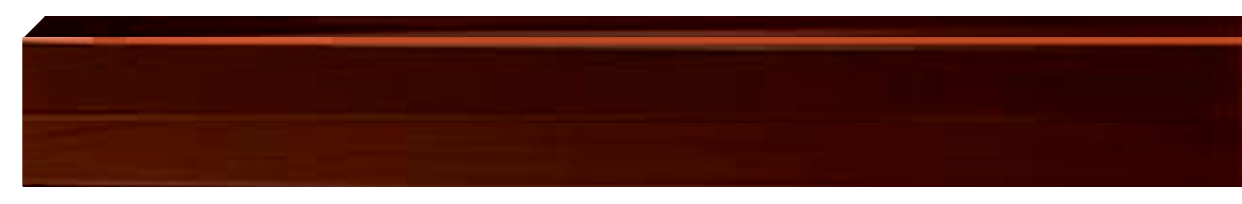
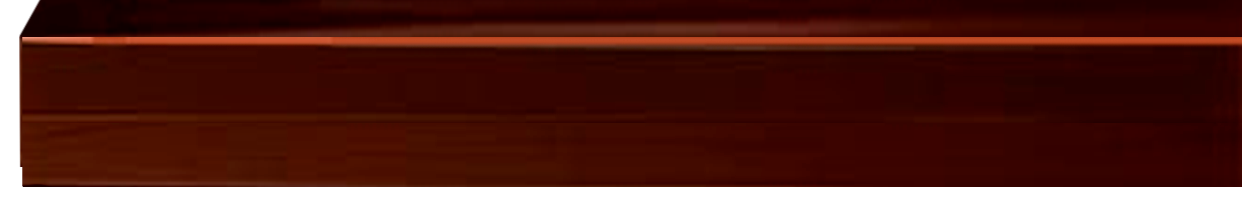
полка

Changed region(s): [[0.0, 0.0, 1.0, 0.7941]]

diff --git a/src/screens/Home/Home.css b/src/screens/Home/Home.css
@@ -39,14 +39,14 @@
 
 
   .shelf-container1 {
-    bottom: calc(29vh);
+    bottom: calc(28.8vh);
     
     position: absolute;
     z-index: 1000;
   }
 
   .shelf-container2 {
-    bottom: calc(13vh);
+    bottom: calc(12.8vh);
     
     position: absolute;
     z-index: 1000;
